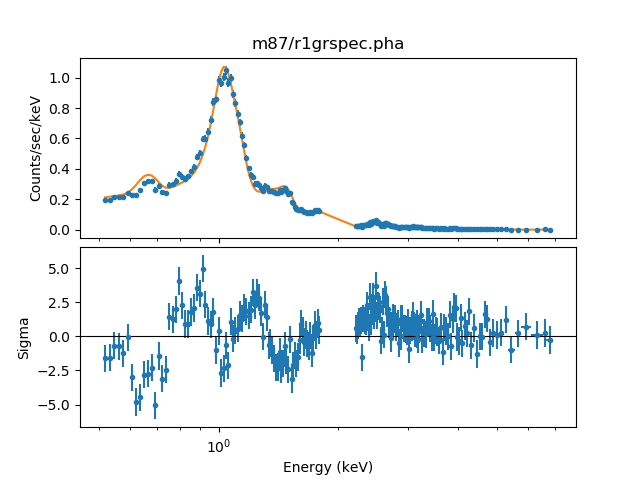
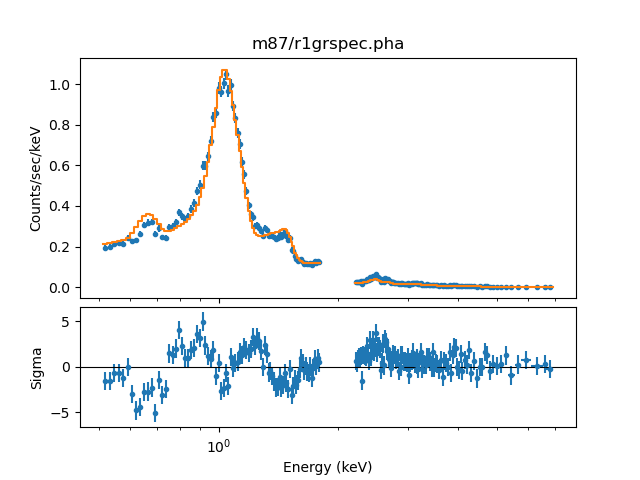
Create plots with CIAO 4.13
The main aim is to show off the improved PHA model display
routines, but we also get other fixes (such as the fit+resid plot
correctly sized rather than 50/50).

diff --git a/docs/examples/m87.rst b/docs/examples/m87.rst
@@ -1,7 +1,7 @@
 
 .. include:: ../references.rst
 
-***	     
+***
 M87
 ***
 
@@ -53,15 +53,15 @@ radius of the outer annulus.  Thus the ``radii`` list will be one element
 longer than the number of annuli.
 
 ::
-   
-  >>> print(radii)                                                            
+
+  >>> print(radii)
   [ 14.76  29.52  44.28  59.04  73.8   88.56 103.32 118.08 132.84 147.6
    162.36 177.12 191.88 206.64 221.4  236.16 250.92 265.68 280.44 295.2
    309.96] arcsec
 
 *Now the key step* of creating the :class:`Deproject` object ``dep``.  This
 object is the interface to the all the :mod:`deproject`
-methods used for the deprojection analysis.  
+methods used for the deprojection analysis.
 ::
 
   >>> dep = Deproject(radii, theta=theta, angdist=angdist)
@@ -85,7 +85,7 @@ estimator for M87 we also explicitly set the angular size distance
 using the ``angdist`` parameter.
 
 .. _m87_load:
-   
+
 Load the data
 =============
 
@@ -99,7 +99,7 @@ case ``dep.load_pha(file, annulus)`` loads the PHA file using the
 function but also registers the dataset in the spectral stack::
 
   >>> for annulus in range(len(radii) - 1):
-  ...    dep.load_pha('m87/r%dgrspec.pha' % (annulus + 1), annulus)
+  ...    dep.load_pha(f'm87/r{annulus + 1}grspec.pha', annulus)
 
 .. note::
    The ``annulus`` parameter is required in ``dep.load_pha()`` to allow
@@ -126,27 +126,27 @@ following caveats:
    typical *Sherpa* usage one generates the model component name in the
    model expression, e.g. ``set_source('xswabs.abs1 * xsmekal.mek1')``.  This
    would create model components named ``abs1`` and ``mek1``.  In
-   ``dep.set_source()`` the model component names are auto-generated as 
+   ``dep.set_source()`` the model component names are auto-generated as
    ``<model_type>_<shell>``.
  - Only one of each model type can be used in the model expression.  A source
    model expression like ``"xsmekal + gauss1d + gauss1d"`` would result in an
    error due to the model component auto-naming.
 
 Next any required parameter values are set and their `freeze`_ or `thaw`_
-status are set.  
+status are set.
 ::
 
   >>> dep.set_par('xswabs.nh', 0.0255)
   >>> dep.freeze('xswabs.nh')
-  
+
   >>> dep.set_par('xsmekal.abundanc', 0.5)
   >>> dep.thaw('xsmekal.abundanc')
-  
+
   >>> dep.set_par('xsmekal.redshift', redshift)
 
-As a convenience if any of the model components have a 
+As a convenience if any of the model components have a
 ``redshift`` parameter that value will be used as the default redshift for
-calculating the angular size distance.  
+calculating the angular size distance.
 
 .. _data_selection:
 
@@ -198,24 +198,24 @@ normalizations for the shell/annulus overlaps:
   Dataset               = 19
   ...
   Change in statistic   = 4.60321e+10
-     xsmekal_19.kT   2.748        +/- 0.0551545   
-     xsmekal_19.Abundanc   0.429754     +/- 0.0350466   
-     xsmekal_19.norm   0.00147471   +/- 2.45887e-05 
+     xsmekal_19.kT   2.748        +/- 0.0551545
+     xsmekal_19.Abundanc   0.429754     +/- 0.0350466
+     xsmekal_19.norm   0.00147471   +/- 2.45887e-05
   Projected fit to annulus 18 dataset: 18
   Dataset               = 18
   ...
   Change in statistic   = 4.61945e+10
-     xsmekal_18.kT   2.68875      +/- 0.0543974   
-     xsmekal_18.Abundanc   0.424198     +/- 0.0335045   
-     xsmekal_18.norm   0.00147443   +/- 2.43454e-05 
+     xsmekal_18.kT   2.68875      +/- 0.0543974
+     xsmekal_18.Abundanc   0.424198     +/- 0.0335045
+     xsmekal_18.norm   0.00147443   +/- 2.43454e-05
   ...
   Projected fit to annulus 0 dataset: 0
   Dataset               = 0
   ...
   Change in statistic   = 2.15043e+10
-     xsmekal_0.kT   1.57041      +/- 0.0121572   
-     xsmekal_0.Abundanc   1.05816      +/- 0.0373779   
-     xsmekal_0.norm   0.00152496   +/- 2.93297e-05 
+     xsmekal_0.kT   1.57041      +/- 0.0121572
+     xsmekal_0.Abundanc   1.05816      +/- 0.0373779
+     xsmekal_0.norm   0.00152496   +/- 2.93297e-05
 
 As shown in the screen output, the ``guess`` routine fits each
 annulus in turn, from outer to inner. After each fit, the
@@ -260,6 +260,10 @@ keV is because we :ref:`explicitly excluded this range
    and
    :py:meth:`~deproject.deproject.Deproject.plot_fit`.
 
+   The plot output depends on the version of Sherpa in use (prior to
+   the 4.13 release the models were not displayed as histograms and
+   the filtered-out ranges were not so obvious as they now are).
+
 Fitting the data
 ================
 
@@ -275,9 +279,9 @@ parameters being frozen as each annulus is processed)::
   ...
   Reduced statistic     = 1.07869
   Change in statistic   = 1.29468e-08
-     xsmekal_19.kT   2.748        +/- 0.0551534   
-     xsmekal_19.Abundanc   0.429758     +/- 0.0350507   
-     xsmekal_19.norm   0.249707     +/- 0.00416351  
+     xsmekal_19.kT   2.748        +/- 0.0551534
+     xsmekal_19.Abundanc   0.429758     +/- 0.0350507
+     xsmekal_19.norm   0.249707     +/- 0.00416351
   Freezing xswabs_19
   Freezing xsmekal_19
   Fitting annulus 18  dataset: 18
@@ -285,9 +289,9 @@ parameters being frozen as each annulus is processed)::
   ...
   Reduced statistic     = 1.00366
   Change in statistic   = 13444.5
-     xsmekal_18.kT   2.41033      +/- 0.274986    
-     xsmekal_18.Abundanc   0.375824     +/- 0.136926    
-     xsmekal_18.norm   0.0551815    +/- 0.00441495  
+     xsmekal_18.kT   2.41033      +/- 0.274986
+     xsmekal_18.Abundanc   0.375824     +/- 0.136926
+     xsmekal_18.norm   0.0551815    +/- 0.00441495
   Freezing xswabs_18
   Freezing xsmekal_18
   ...
@@ -297,14 +301,9 @@ parameters being frozen as each annulus is processed)::
   Dataset               = 0
   ...
   Reduced statistic     = 2.72222
-  Change in statistic   = 12115.6
-     xsmekal_0.kT   1.63329      +/- 0.0278325   
-     xsmekal_0.Abundanc   1.1217       +/- 0.094871    
-     xsmekal_0.norm   5.7067       +/- 0.262766    
-  Change in statistic   = 13699.6
-     xsmekal_0.kT   1.64884      +/- 0.0242336   
-     xsmekal_0.Abundanc   1.14629      +/- 0.0903398   
-     xsmekal_0.norm   5.68824      +/- 0.245884    
+     xsmekal_0.kT   1.64884      +/- 0.0242336
+     xsmekal_0.Abundanc   1.14629      +/- 0.0903398
+     xsmekal_0.norm   5.68824      +/- 0.245884
   ...
 
 The fit to the central annulus (dataset 0) now looks like::
@@ -341,10 +340,10 @@ The fit results can also be retrieved with the
 method.
 
 ::
-  
+
   >>> print(onion)
-  annulus rlo_ang rhi_ang ...     xsmekal.norm          density       
-           arcsec  arcsec ...                           1 / cm3       
+  annulus rlo_ang rhi_ang ...     xsmekal.norm          density
+           arcsec  arcsec ...                           1 / cm3
   ------- ------- ------- ... ------------------- --------------------
         0   14.76   29.52 ...  5.6882389946381275   0.1100953546292787
         1   29.52   44.28 ...  2.8089409208987233  0.07736622021374819
@@ -432,8 +431,8 @@ or
 methods. The columns depend on the command (i.e. fit or error results)::
 
   >>> print(errs)
-  annulus rlo_ang rhi_ang ...        density_lo             density_hi      
-           arcsec  arcsec ...         1 / cm3                1 / cm3        
+  annulus rlo_ang rhi_ang ...        density_lo             density_hi
+           arcsec  arcsec ...         1 / cm3                1 / cm3
   ------- ------- ------- ... ----------------------- ----------------------
         0   14.76   29.52 ...  -0.0023299300992805777  0.0022816336635322065
         1   29.52   44.28 ...  -0.0015878693875514133  0.0015559288091097495
@@ -496,4 +495,3 @@ of XSPEC used for the two cases does not match):
 
 .. image:: m87_compare_density.png
 .. image:: m87_compare_temperature.png
-
